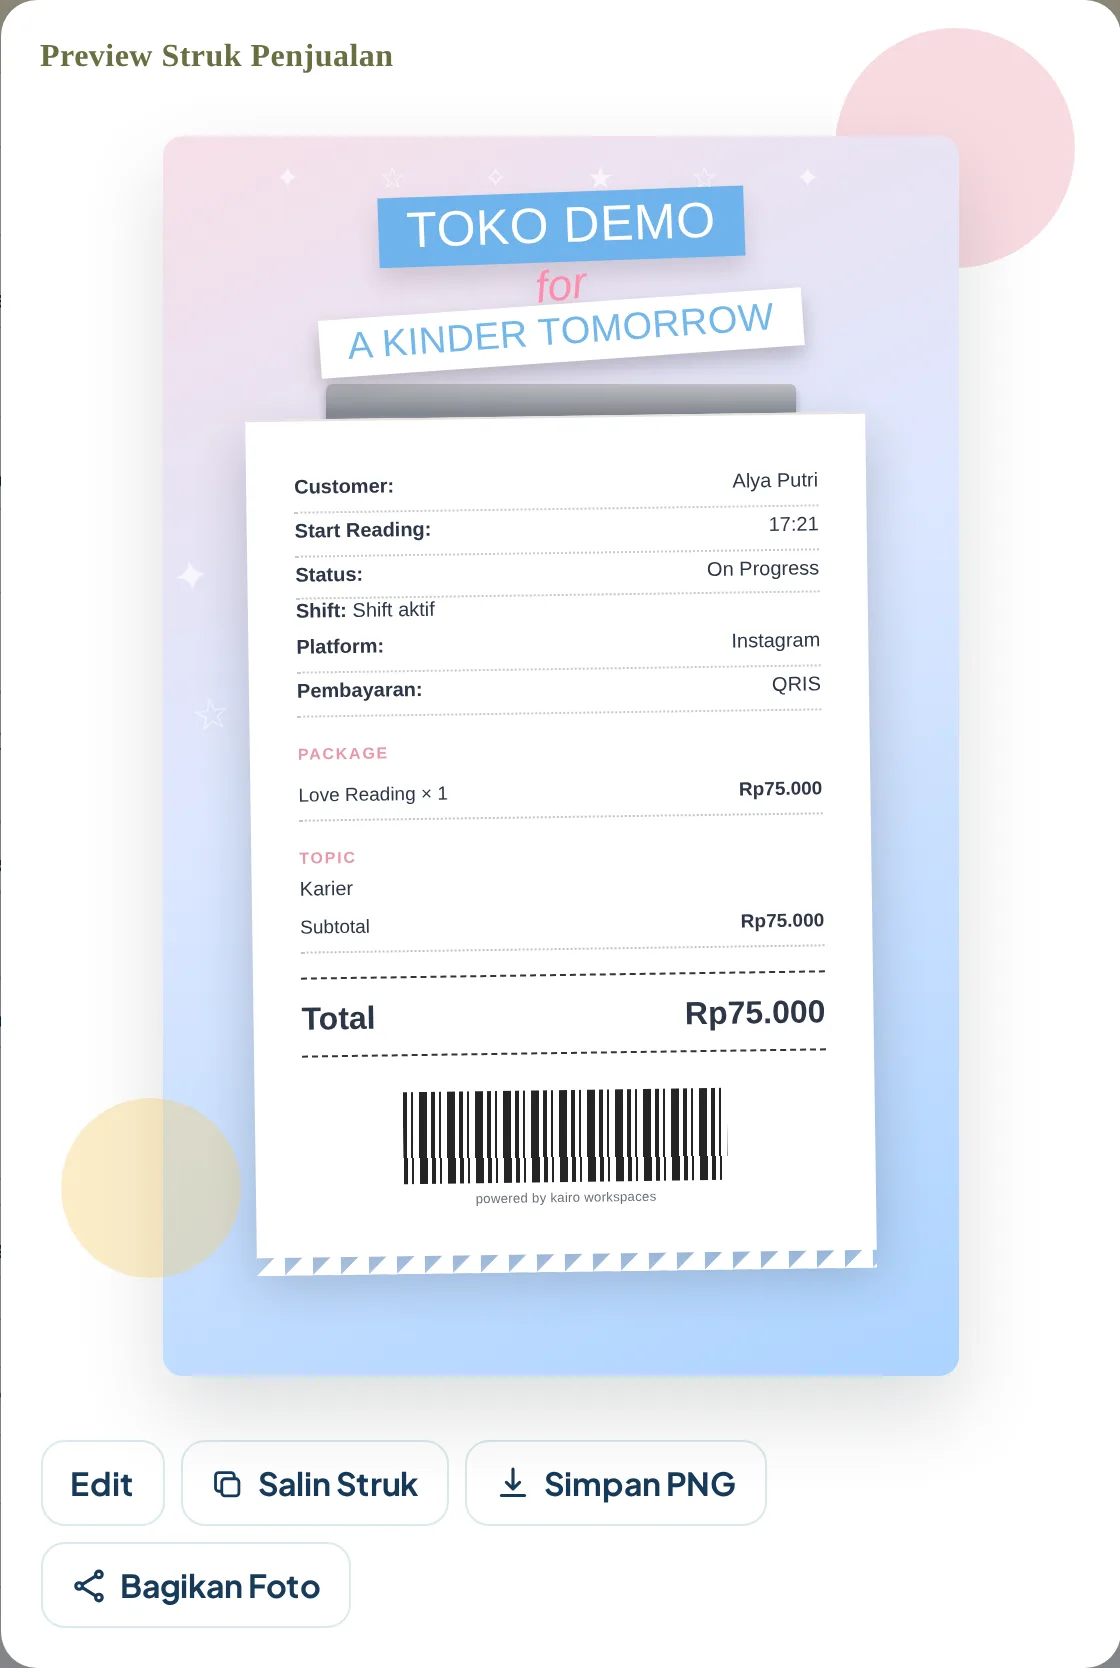
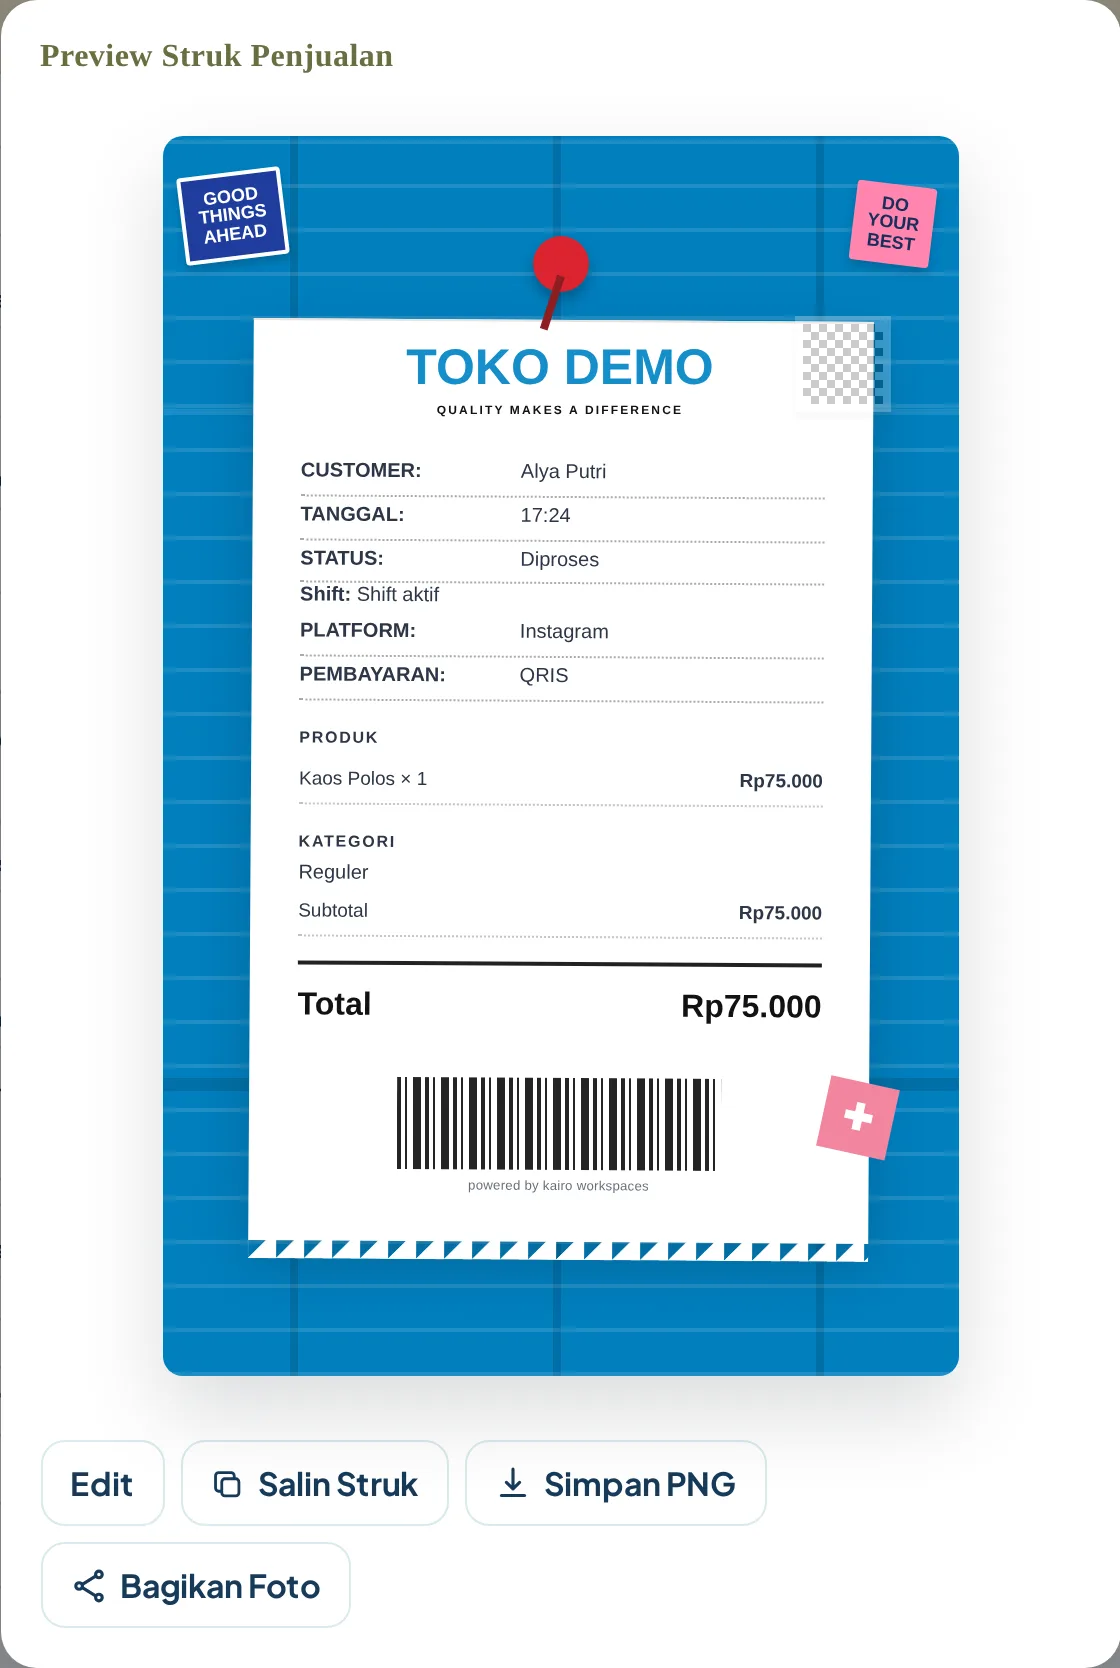
Landing: screenshots use a general online-shop example, no reading fields
Owner: the Features screenshots should not show the tarot/reading demo (Start Reading,
Tarot packages, topics). The demo data is now a plain online shop (Kaos Polos, Totebag
Kanvas, Gift Wrap), the receipt uses the app's own label settings (Tanggal/Produk/
Kategori) with the Studio template, the Orders shot ends after the products, and the
link-preview image is rebuilt from the new shots. shoot-landing.js now also renders
the preview image from og-template.html so both stay in sync.

Claude-Session: https://claude.ai/code/session_019JGbJrxpUd72z1FB6MW3hr

diff --git a/.claude/testing/shoot-landing.js b/.claude/testing/shoot-landing.js
@@ -3,7 +3,12 @@
 const { chromium, bootApp } = require('./boot.js');
 const fs=require('fs');
 let SEED = require('./seed.js');
-SEED=SEED.replace(/'Nesa'/g,"'Partner A'").replace(/'Ganesh'/g,"'Partner B'")+`
+// Universal online-shop example (not the tarot/reading demo): products, add-on, categories.
+const SWAP=[["'TR3'","'TOTE'"],["'Tarot 3 Kartu'","'Totebag Kanvas'"],["'LOVE'","'KAOS'"],["'Love Reading'","'Kaos Polos'"],["'VN'","'WRAP'"],["'Voice Note'","'Gift Wrap'"],["'Karier'","'Reguler'"],["'Asmara'","'Pre-order'"],["'Nesa'","'Partner A'"],["'Ganesh'","'Partner B'"]];
+SWAP.forEach(([from,to])=>{SEED=SEED.split(from).join(to)});
+SEED=SEED+`
+;T.workspace_branding[0].receipt_labels={start:'Tanggal',status_value:'Diproses',package:'Produk',topic:'Kategori',addon:'Tambahan'};
+T.workspace_branding[0].receipt_layout={design:{template:'studio'}};
 ;(function(){const H=3600000,D=86400000;
 T.transactions.slice(0,4).forEach(t=>t.shift_id='s1');
 T.reading_shifts.push({id:'s2',workspace_id:'w1',opened_at:new Date(now-D-9*H).toISOString(),closed_at:new Date(now-D-1*H).toISOString()},{id:'s3',workspace_id:'w1',opened_at:new Date(now-2*D-8*H).toISOString(),closed_at:new Date(now-2*D-2*H).toISOString()},{id:'s4',workspace_id:'w1',opened_at:new Date(now-3*D-7*H).toISOString(),closed_at:new Date(now-3*D-H).toISOString()});
@@ -30,9 +35,11 @@ await p.waitForTimeout(400);
 await shot('.shift-card','open-store',560);
 // Orders form
 await p.evaluate(async()=>{openAppPage('input');await loadPageData('input',{force:true})});await p.waitForTimeout(900);
-await p.evaluate(()=>{const set=(id,v)=>{const el=document.getElementById(id);el.value=v;el.dispatchEvent(new Event('change',{bubbles:true}))};document.getElementById('tx-customer').value='Alya Putri';document.getElementById('tx-date').value=todayISO();set('tx-platform','Instagram');set('tx-payment','QRIS');const pk=document.querySelector('.package-check');pk.checked=true;pk.dispatchEvent(new Event('change',{bubbles:true}));const tp=document.querySelector('.topic-check');tp.checked=true;tp.dispatchEvent(new Event('change',{bubbles:true}))});
+await p.evaluate(()=>{const set=(id,v)=>{const el=document.getElementById(id);el.value=v;el.dispatchEvent(new Event('change',{bubbles:true}))};document.getElementById('tx-customer').value='Alya Putri';document.getElementById('tx-date').value=todayISO();set('tx-platform','Instagram');set('tx-payment','QRIS');const pk=document.querySelector('.package-check');pk.checked=true;pk.dispatchEvent(new Event('change',{bubbles:true}))});
 const formCard=await p.evaluate(()=>{const f=document.getElementById('tx-form');const c=f.closest('.card')||f.parentElement;c.id=c.id||'kairo-shot-orders';return '#'+c.id});
-await shot(formCard,'orders',760);
+// Crop after "Package & Qty": the Topik field belongs to the service (reading) flow.
+const cut=await p.evaluate(sel=>{const c=document.querySelector(sel).getBoundingClientRect();const pk=document.getElementById('tx-packages').getBoundingClientRect();return Math.round(pk.bottom-c.top+12)},formCard);
+await shot(formCard,'orders',cut);
 // Receipt
 await p.evaluate(()=>openSavedReceipt(window.__db.tables.transactions[0].id));await p.waitForTimeout(900);
 const rsel=await p.evaluate(()=>{const m=document.getElementById('receipt-modal');const c=m.querySelector('.receipt-card,.modal-card,.modal-content')||m.firstElementChild;c.id=c.id||'kairo-shot-receipt';return '#'+c.id});
@@ -42,5 +49,9 @@ await p.evaluate(()=>{const m=document.getElementById('receipt-modal');m.style.d
 await p.evaluate(async()=>{openAppPage('cash');await loadPageData('cash',{force:true})});await p.waitForTimeout(900);
 await p.evaluate(()=>{const bar=document.querySelector('#cash .cash-filter-bar');let t=bar.nextElementSibling;while(t&&!t.classList.contains('table-wrap'))t=t.nextElementSibling;const w=document.createElement('div');w.id='kairo-shot-cash';w.style.cssText='margin-top:48px;position:relative;z-index:2;padding:18px;background:var(--v3-surface,#fff);border-radius:20px';bar.parentNode.insertBefore(w,bar);w.appendChild(bar);w.appendChild(t)});
 await p.waitForTimeout(400);{const el=await p.$('#kairo-shot-cash');const buf=await el.screenshot();await toWebp(p,buf,'petty-cash',1200);0}
+// Link-preview image from the fresh screenshots.
+const og=await (await b.newContext({viewport:{width:1200,height:630}})).newPage();
+await og.goto((process.env.KAIRO_URL||'http://localhost:8123/index.html').replace(/index\.html$/,'')+'.claude/testing/og-template.html');await og.waitForTimeout(800);
+await og.screenshot({path:require('path').join(__dirname,'../../assets/og/kairo-og.jpg'),type:'jpeg',quality:86});console.log('og 1200x630');
 console.log(p.errs);await b.close();
 })();

diff --git a/index.html b/index.html
@@ -241,7 +241,7 @@
         </header>
         <div class="kairo-lp-showcase">
           <article class="kairo-lp-showcase-row" data-kairo-reveal>
-            <figure class="kairo-lp-shot"><img src="assets/landing/orders.webp" width="1200" height="844" alt="Form Penjualan Baru di KAIRO: tanggal, nama customer, platform, metode pembayaran, paket, dan topik" loading="lazy" decoding="async"></figure>
+            <figure class="kairo-lp-shot"><img src="assets/landing/orders.webp" width="1200" height="602" alt="Form Penjualan Baru di KAIRO: tanggal, nama customer, platform, metode pembayaran, paket, dan topik" loading="lazy" decoding="async"></figure>
             <div class="kairo-lp-showcase-copy">
               <span class="kairo-lp-eyebrow">Orders</span>
               <h3>Catat order dalam hitungan detik</h3>
@@ -255,7 +255,7 @@
               <span class="kairo-lp-eyebrow">Riwayat &amp; Struk</span>
               <h3>Struk rapi, siap dikirim ke customer</h3>
               <p>Setiap order masuk ke riwayat lengkap dengan statusnya. Struknya bisa disimpan, disalin, dibagikan, atau dicetak ulang kapan saja.</p>
-              <ul class="kairo-lp-price-list"><li><svg viewBox="0 0 24 24" aria-hidden="true"><path d="m5 12.5 4.2 4.2L19 7"/></svg><span>Simpan PNG, salin, dan bagikan foto struk</span></li><li><svg viewBox="0 0 24 24" aria-hidden="true"><path d="m5 12.5 4.2 4.2L19 7"/></svg><span>Status order: On Progress atau Selesai</span></li><li><svg viewBox="0 0 24 24" aria-hidden="true"><path d="m5 12.5 4.2 4.2L19 7"/></svg><span>Warna, wording, dan logo struk sendiri <span class="kairo-lp-pro-tag">Pro</span></span></li></ul>
+              <ul class="kairo-lp-price-list"><li><svg viewBox="0 0 24 24" aria-hidden="true"><path d="m5 12.5 4.2 4.2L19 7"/></svg><span>Simpan PNG, salin, dan bagikan foto struk</span></li><li><svg viewBox="0 0 24 24" aria-hidden="true"><path d="m5 12.5 4.2 4.2L19 7"/></svg><span>Status order ikut tercatat di struk</span></li><li><svg viewBox="0 0 24 24" aria-hidden="true"><path d="m5 12.5 4.2 4.2L19 7"/></svg><span>Warna, wording, dan logo struk sendiri <span class="kairo-lp-pro-tag">Pro</span></span></li></ul>
             </div>
           </article>
           <article class="kairo-lp-showcase-row" data-kairo-reveal>
@@ -279,7 +279,7 @@
         </div>
         <div class="kairo-lp-more-features" data-kairo-reveal>
           <h3>Fitur lainnya</h3>
-          <ul><li><strong>Customer Database <span class="kairo-lp-pro-tag">Pro</span></strong><span>Riwayat order dan total belanja setiap customer.</span></li><li><strong>Promo otomatis <span class="kairo-lp-pro-tag">Pro</span></strong><span>Diskon persen atau nominal untuk semua paket atau paket tertentu.</span></li><li><strong>Performance</strong><span>Grafik omzet dan platform sesuai filter tanggal.</span></li><li><strong>Notifikasi order</strong><span>Pengingat order yang masih On Progress.</span></li><li><strong>Pembagian profit <span class="kairo-lp-pro-tag">Pro</span></strong><span>Hak partner dan kas dihitung dari setiap penjualan.</span></li><li><strong>Export Excel <span class="kairo-lp-pro-tag">Pro</span></strong><span>Unduh data transaksi untuk laporan.</span></li></ul>
+          <ul><li><strong>Customer Database <span class="kairo-lp-pro-tag">Pro</span></strong><span>Riwayat order dan total belanja setiap customer.</span></li><li><strong>Promo otomatis <span class="kairo-lp-pro-tag">Pro</span></strong><span>Diskon persen atau nominal untuk semua paket atau paket tertentu.</span></li><li><strong>Performance</strong><span>Grafik omzet dan platform sesuai filter tanggal.</span></li><li><strong>Notifikasi order</strong><span>Pengingat order yang belum selesai diproses.</span></li><li><strong>Pembagian profit <span class="kairo-lp-pro-tag">Pro</span></strong><span>Hak partner dan kas dihitung dari setiap penjualan.</span></li><li><strong>Export Excel <span class="kairo-lp-pro-tag">Pro</span></strong><span>Unduh data transaksi untuk laporan.</span></li></ul>
         </div>
       </div>
     </section>

diff --git a/.claude/testing/og-template.html b/.claude/testing/og-template.html
@@ -1,0 +1,23 @@
+<!doctype html><html><head><meta charset="utf-8"><title>og</title><style>
+/* Link-preview image (1200x630) rendered by shoot-landing.js -> assets/og/kairo-og.jpg */
+@font-face{font-family:PJ;src:url(../../assets/fonts/plus-jakarta-sans-latin-wght-normal.woff2) format('woff2');font-weight:200 800}
+*{box-sizing:border-box;margin:0}
+body{width:1200px;height:630px;overflow:hidden;font-family:PJ,sans-serif;background:radial-gradient(circle at 8% 0%,rgba(37,185,176,.16),transparent 40%),radial-gradient(circle at 100% 100%,rgba(223,169,74,.16),transparent 40%),#fbfcf8;color:#173a59;position:relative}
+.l{position:absolute;left:72px;top:70px;width:560px}
+.brand{display:flex;align-items:center;gap:14px}.brand img{width:58px;height:58px}.brand b{display:block;font-size:26px;letter-spacing:.08em;font-weight:800}.brand small{display:block;font-size:13px;letter-spacing:.32em;color:#62798a;font-weight:700}
+h1{margin-top:58px;font-size:56px;line-height:1.08;letter-spacing:-.045em;font-weight:800}h1 mark{background:none;color:#168f8a}
+p{margin-top:24px;font-size:22px;line-height:1.5;color:#4f6577;font-weight:500}
+.pill{position:absolute;left:72px;bottom:64px;display:flex;gap:12px}.pill span{padding:10px 18px;border-radius:999px;background:#fff;border:1px solid #d9e9ed;font-size:17px;font-weight:700}
+.pill span.g{background:#173a59;color:#fff;border-color:#173a59}
+.shot{position:absolute;right:-40px;top:70px;width:560px;padding:12px;border-radius:24px;background:#f3fafb;border:1px solid #d9e9ed;box-shadow:0 30px 70px rgba(23,58,89,.18);transform:rotate(-3deg)}
+.shot img{display:block;width:100%;border-radius:14px}
+.shot2{position:absolute;right:250px;top:330px;width:330px;padding:10px;border-radius:20px;background:#fff;border:1px solid #d9e9ed;box-shadow:0 24px 60px rgba(23,58,89,.2);transform:rotate(2deg)}
+.shot2 img{display:block;width:100%;border-radius:12px}
+</style></head><body>
+<div class="l"><div class="brand"><img src="../../assets/kairo-mark.svg" alt=""><span><b>KAIRO</b><small>WORKSPACES</small></span></div>
+<h1>Order, kas, dan struk <mark>dalam satu dashboard.</mark></h1>
+<p>Workspace bisnis untuk usaha online.</p></div>
+<div class="shot"><img src="../../assets/landing/orders.webp" alt=""></div>
+<div class="shot2"><img src="../../assets/landing/open-store.webp" alt=""></div>
+<div class="pill"><span class="g">Mulai gratis</span><span>Buka dari HP &amp; laptop</span></div>
+</body></html>

diff --git a/.claude/CLAUDE.md b/.claude/CLAUDE.md
@@ -96,7 +96,9 @@ kartu yang tidak ter-update, cek cabang tab-nya di sini).
 - **Landing:** Home (Hero + `#home-highlights` "Kenapa KAIRO" 4 kartu `.kairo-lp-feature-list` +
   `#home-plans` ringkasan Gratis/Pro + CTA + FAQ), halaman hash `#features #solutions #pricing #about`,
   `#features` = showcase screenshot asli (`assets/landing/*.webp`, data contoh nama netral "Toko Demo",
-  dibuat ulang dengan `.claude/testing/shoot-landing.js`) + "Fitur lainnya"; label `.kairo-lp-pro-tag`
+  dibuat ulang dengan `.claude/testing/shoot-landing.js`; contoh **toko online umum** — Kaos/Totebag, label struk
+  Tanggal/Produk/Kategori; owner: **jangan** pakai contoh jasa tarot / kolom "Start Reading"; screenshot Orders
+  dipotong sebelum field Topik) + "Fitur lainnya"; label `.kairo-lp-pro-tag`
   untuk fitur Pro. Meta SEO/Open Graph + favicon di `<head>`; gambar preview link
   `assets/og/kairo-og.jpg` (1200×630), URL absolut github.io (ganti bila pindah domain).
   `#masuk` = langsung form login. Badge "kini hadir…" sudah dihapus (owner: jangan
